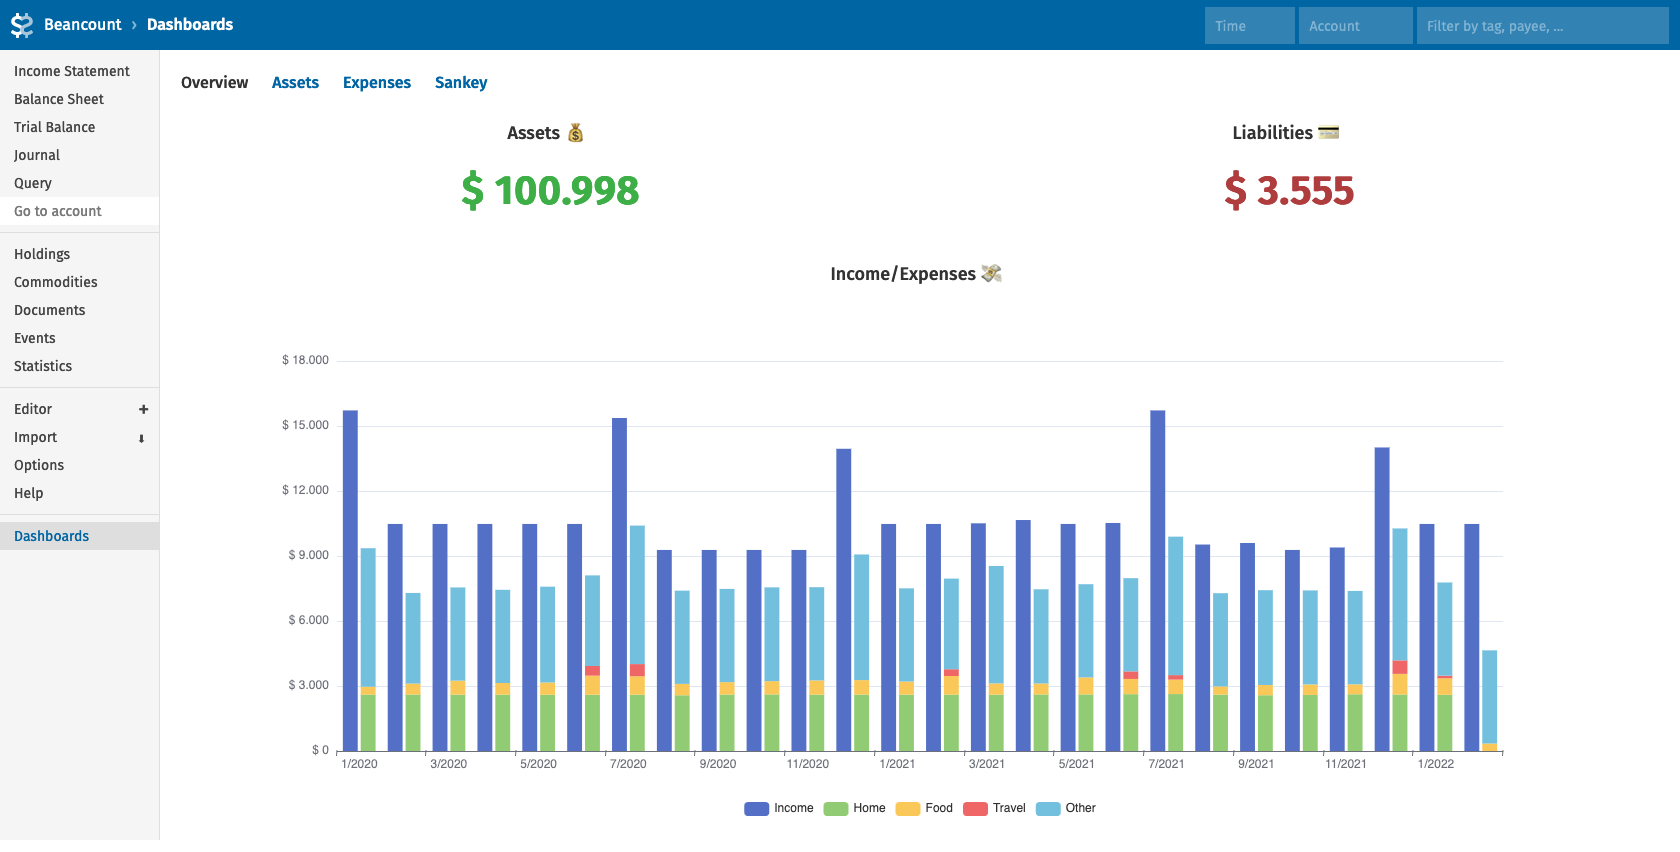
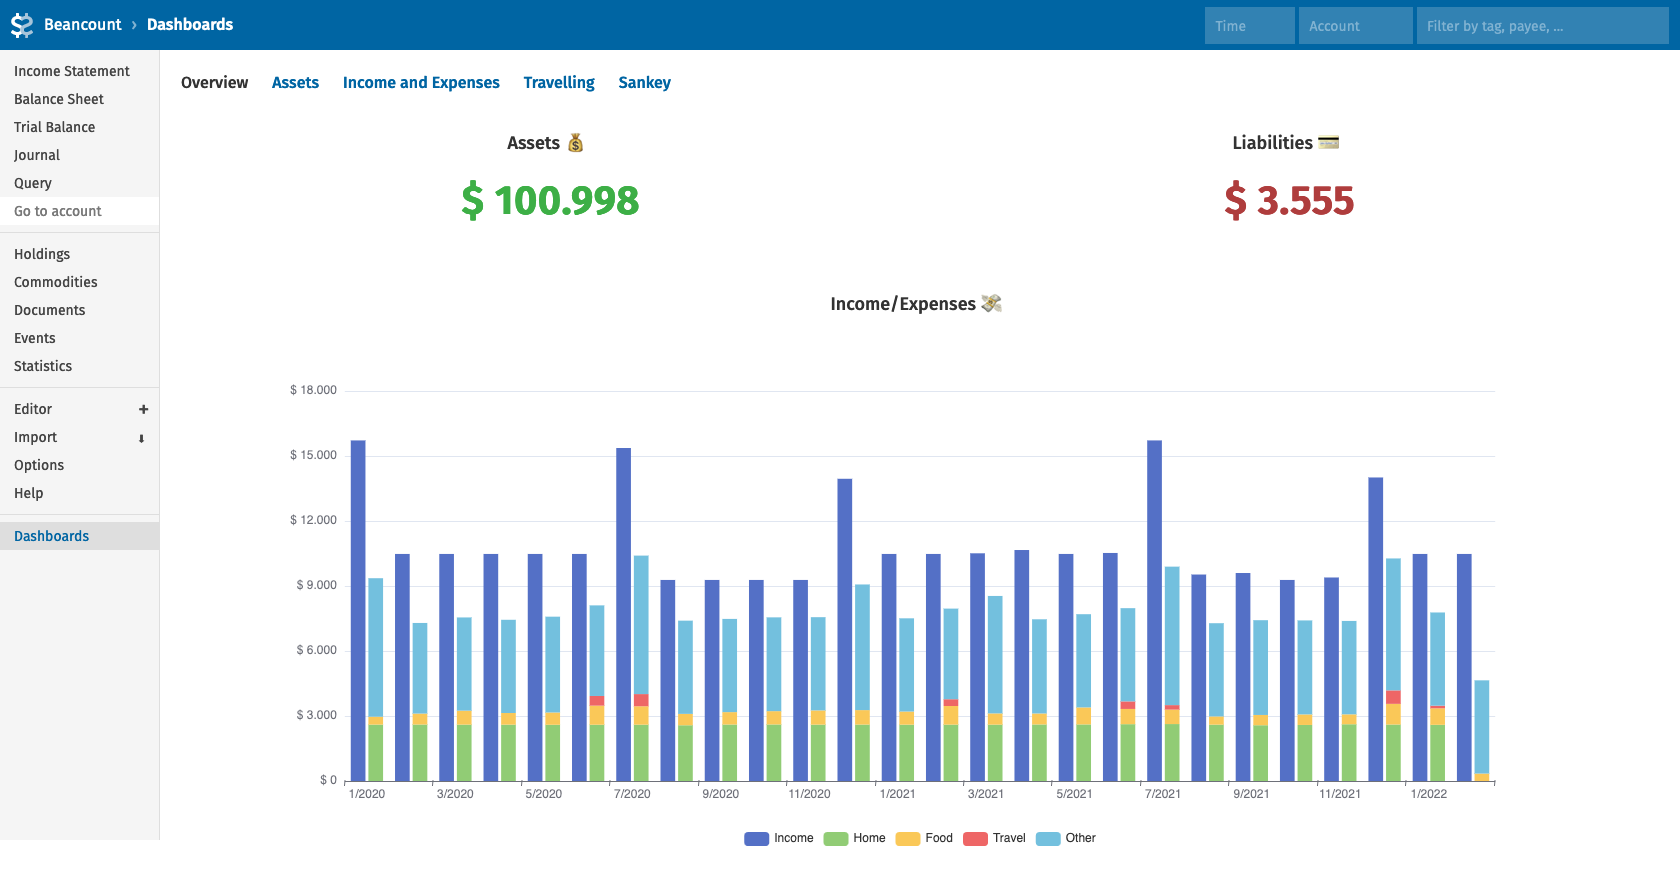
new avg. income/expenses/savings per month panels

diff --git a/README.md b/README.md
@@ -4,7 +4,8 @@ fava-dashboards allows creating custom dashboards in [Fava](https://github.com/b
 Example dashboards with random data:
 [![Overview](example/overview.png)](example/overview.png)
 [![Assets](example/assets.png)](example/assets.png)
-[![Expenses](example/expenses.png)](example/expenses.png)
+[![Income and Expenses](example/income_expenses.png)](example/income_expenses.png)
+[![Travelling](example/travelling.png)](example/travelling.png)
 [![Sankey](example/sankey.png)](example/sankey.png)
 
 ## Installation
